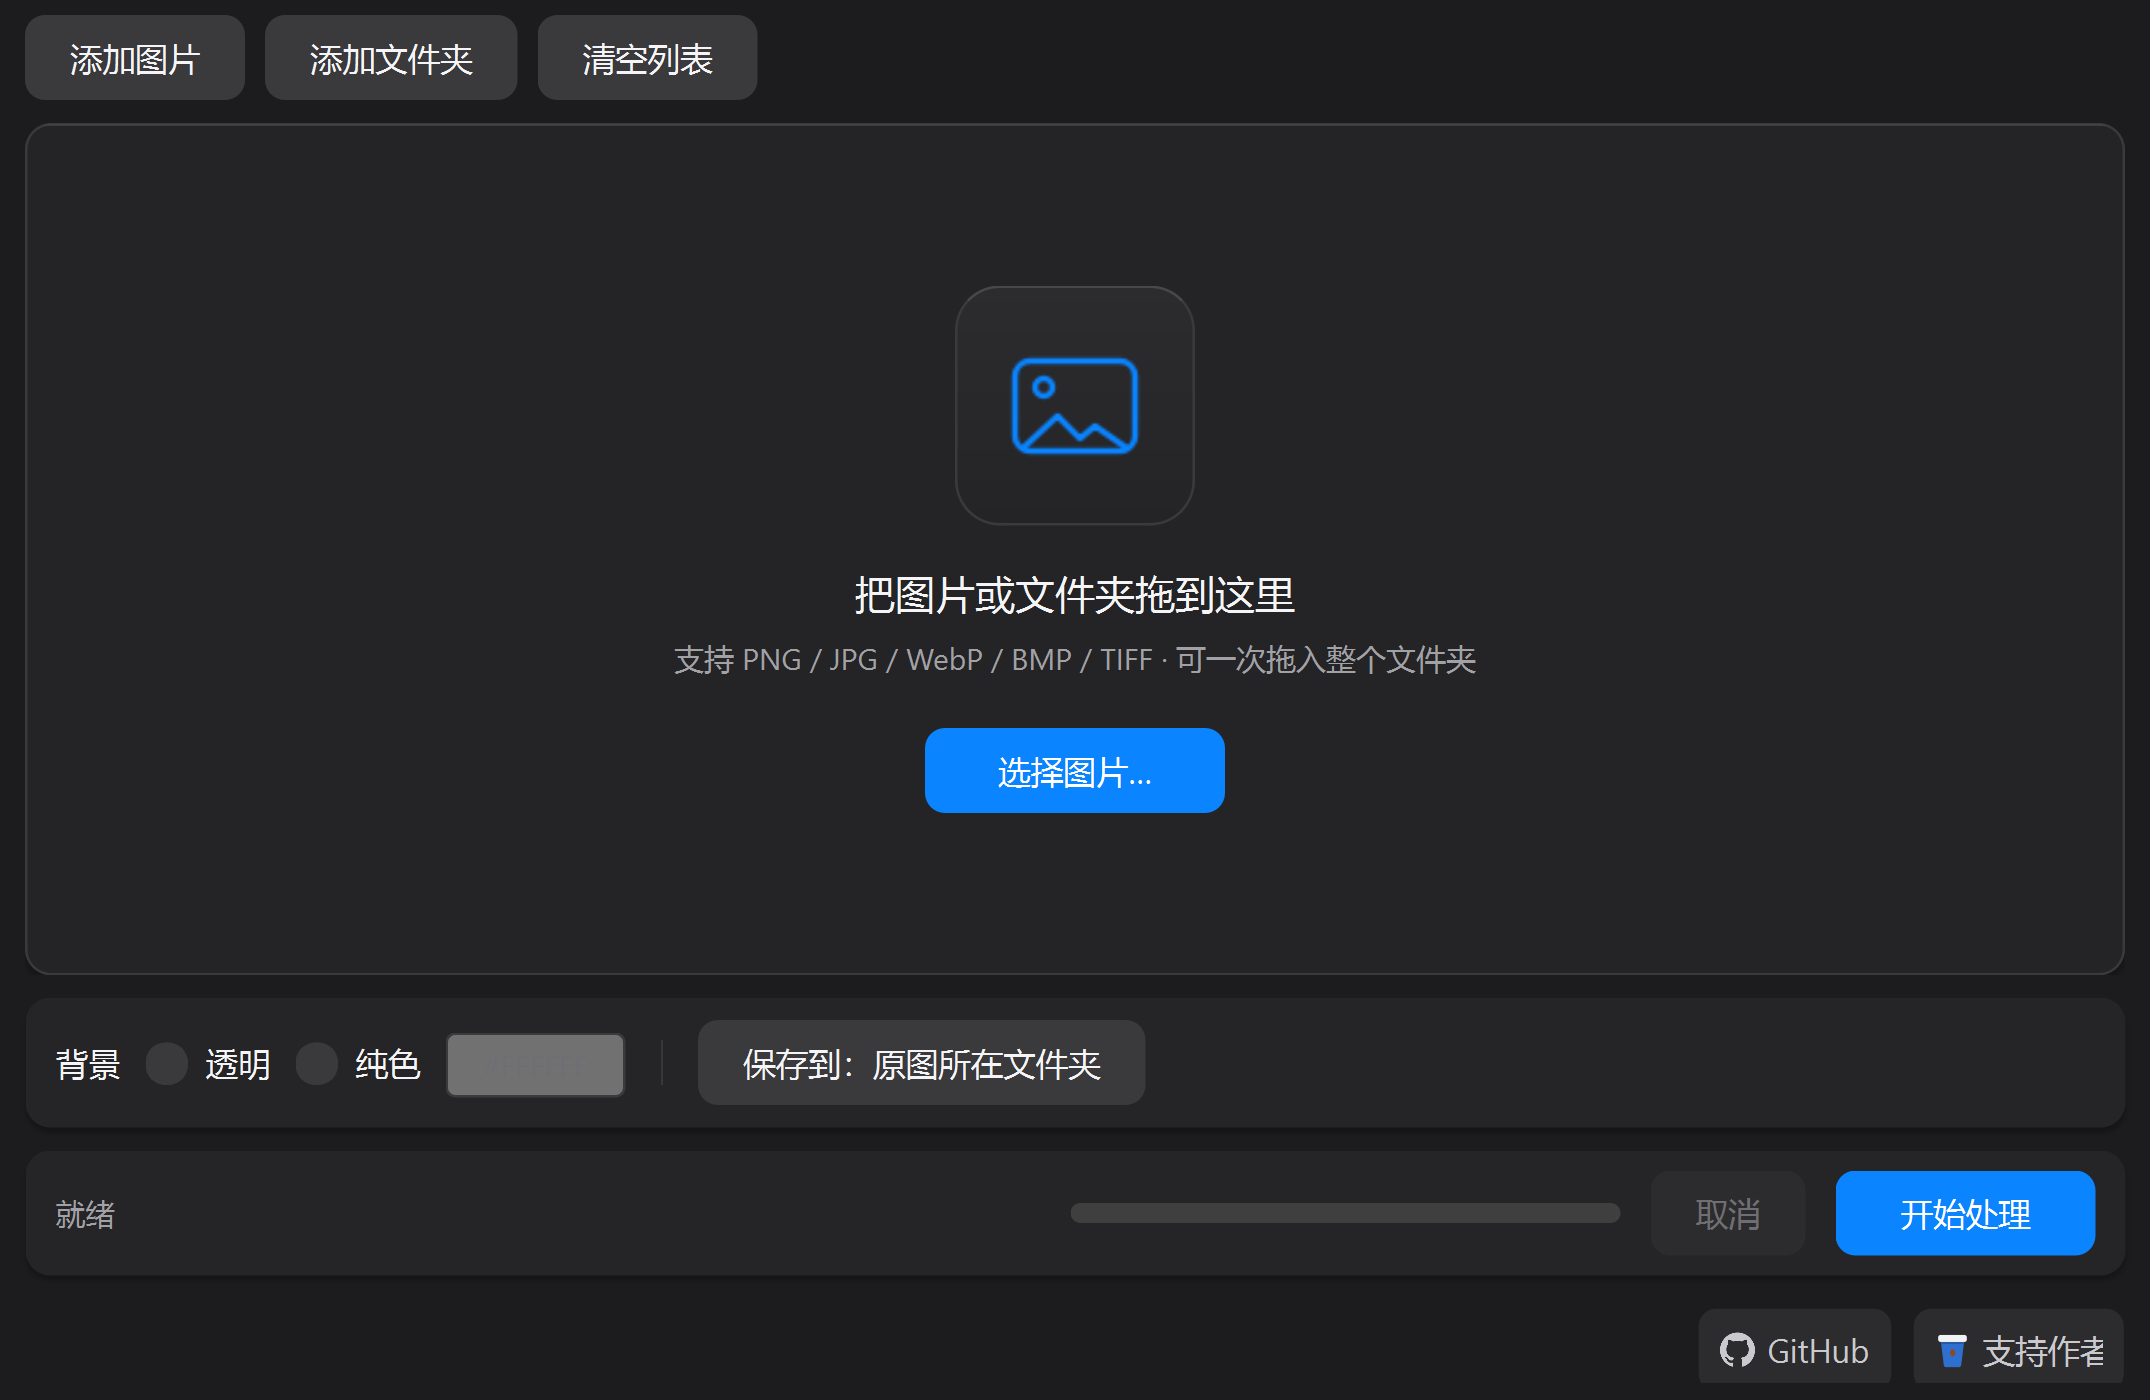
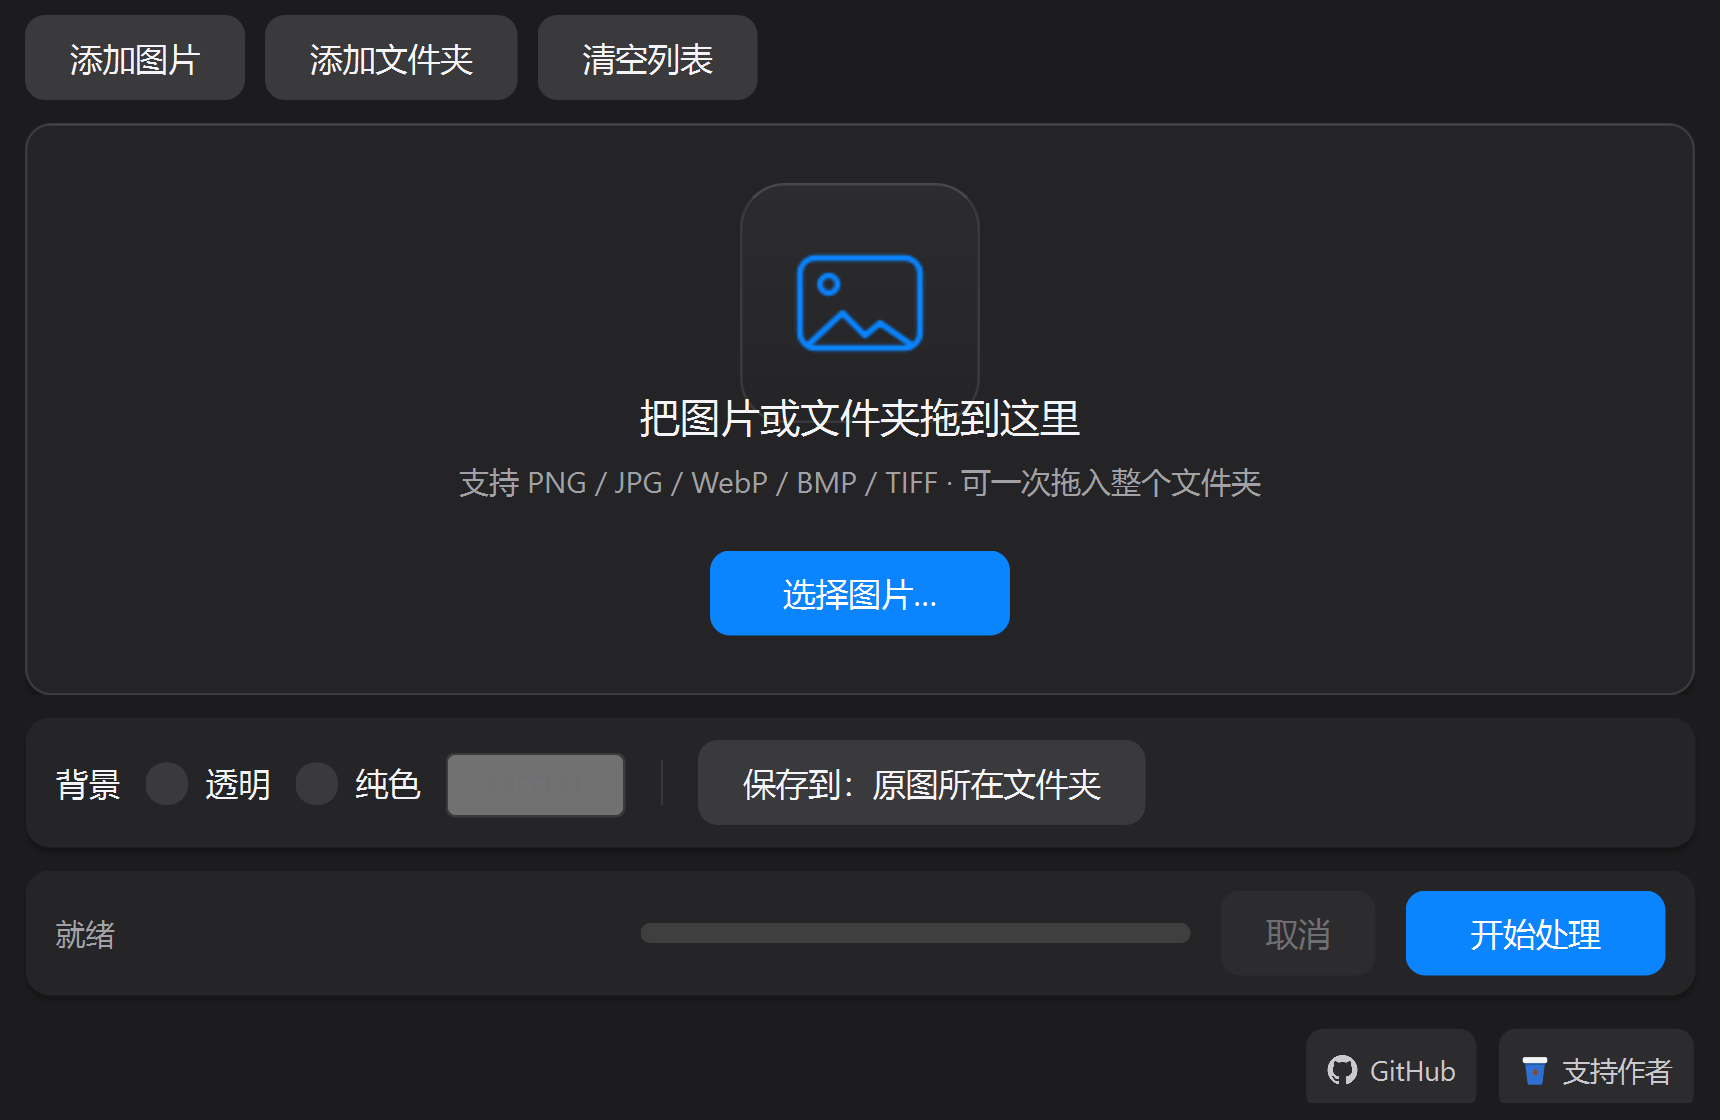
ui: 右下角胶囊按钮字号 13→11px（QSS font-size 会盖掉 setFont，改自绘专用 ui_font + 显式画笔字体）；v0.6.2

diff --git a/app/ui/main_window.py b/app/ui/main_window.py
@@ -185,9 +185,10 @@ def _paint_coffee_cup(painter: QPainter, box: QRectF) -> None:
 class FooterButton(QPushButton):
     """右下角的次要入口：图标 + 文字的小胶囊。
 
-    尺寸照参考图取：高 26、圆角 7、左右内边距 9、图标 14、图标与文字间距 5。
-    底色（PILL_BG）比窗体亮一档、比工具条的灰色按钮暗一档——它是次要入口，
-    不该和「开始处理」抢注意力。
+    尺寸照参考图取：高 26、圆角 7、左右内边距 9、图标 12、图标与文字间距 5。
+    文字 11px —— 比正文（13px）小一档：右下角是次要入口，字号不该和动作行里的
+    按钮一样大（用户 v0.6.2 反馈「右下角字号太大」，此前实际渲染是 13px）。
+    底色（PILL_BG）比窗体亮一档、比工具条的灰色按钮暗一档。
 
     自绘而不是 QSS + QIcon：悬停时底色、图标、文字要一起过渡，而 QSS 的
     伪状态切换是瞬时硬切；QIcon 每帧重建也比换画笔颜色贵（规矩见 anim.py）。
@@ -197,7 +198,8 @@ class FooterButton(QPushButton):
     RADIUS = 7
     PAD = 9
     GAP = 5
-    ICON = 14
+    ICON = 12
+    FONT = 11
 
     def __init__(self, text: str, kind: str, parent: QWidget | None = None) -> None:
         super().__init__(text, parent)
@@ -207,15 +209,14 @@ class FooterButton(QPushButton):
         self.setCursor(Qt.PointingHandCursor)
         self.setFocusPolicy(Qt.NoFocus)
 
-        font = self.font()
-        font.setPixelSize(12)
-        self.setFont(font)
+        # 字号必须自己攥在手里：QSS 的 font-size 会在 polish 时盖掉 setFont()
+        self._font = style.ui_font(self.FONT)
         self.setFixedHeight(self.HEIGHT)
         self.setFixedWidth(
             self.PAD * 2
             + self.ICON
             + self.GAP
-            + QFontMetrics(font).horizontalAdvance(text)
+            + QFontMetrics(self._font).horizontalAdvance(text)
         )
 
         self._tint = anim.TintAnimation(self)
@@ -263,6 +264,7 @@ class FooterButton(QPushButton):
             float(self.height()),
         )
         painter.setPen(foreground)
+        painter.setFont(self._font)
         painter.drawText(text_rect, Qt.AlignLeft | Qt.AlignVCenter, self.text())
         painter.end()
 

diff --git a/app/ui/style.py b/app/ui/style.py
@@ -19,9 +19,8 @@ from __future__ import annotations
 # ---------------------------------------------------------------- 字体
 # 苹果的 SF Pro 拿不到授权，Windows 上只能退到系统中文字体；字重靠 QSS 的
 # font-weight 微调，不要试图去模拟 SF 的字形。
-UI_FONT = (
-    '"Segoe UI", "Microsoft YaHei UI", "PingFang SC", "Helvetica Neue", sans-serif'
-)
+UI_FONT_FAMILIES = ("Segoe UI", "Microsoft YaHei UI", "PingFang SC", "Helvetica Neue")
+UI_FONT = ", ".join(f'"{name}"' for name in UI_FONT_FAMILIES) + ", sans-serif"
 MONO_FONT = '"Cascadia Mono", "Consolas", monospace'
 
 # ---------------------------------------------------------------- 色板
@@ -102,6 +101,21 @@ def mono_font(pixel_size: int = 12):
 
     font = QFont()
     font.setFamilies(["Cascadia Mono", "Consolas", "monospace"])
+    font.setPixelSize(pixel_size)
+    return font
+
+
+def ui_font(pixel_size: int = 13):
+    """界面正文字体，字号自定。
+
+    自绘控件必须显式用它、别用 widget.font()：QSS 里的 `QWidget { font-size: 13px }`
+    会在 polish 时盖掉 setFont()，自绘时按算出来的字号去量宽度、按 13px 去画，
+    文字就会溢出被裁掉（v0.6.1 的胶囊按钮踩过这个坑）。
+    """
+    from PySide6.QtGui import QFont
+
+    font = QFont()
+    font.setFamilies(list(UI_FONT_FAMILIES))
     font.setPixelSize(pixel_size)
     return font
 
